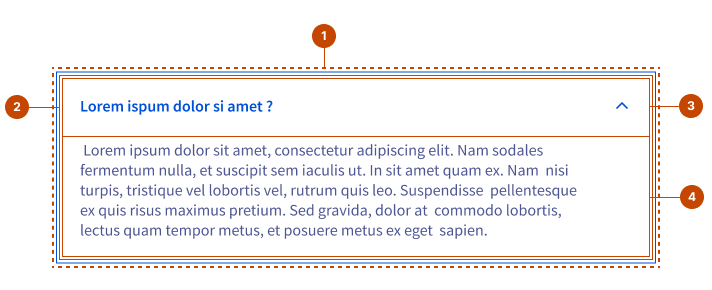
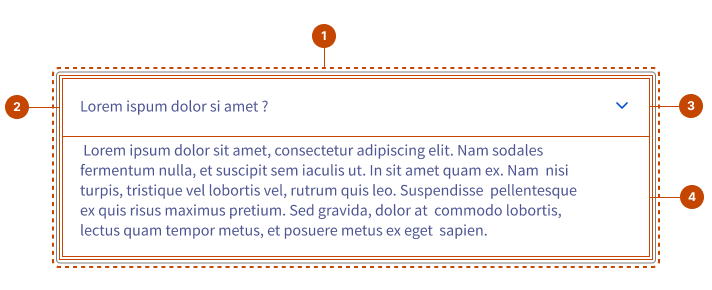
refactor(accordion): simplify trigger structure and update anatomy images

diff --git a/packages/ods-react/src/components/accordion/src/components/accordion-trigger/AccordionTrigger.tsx b/packages/ods-react/src/components/accordion/src/components/accordion-trigger/AccordionTrigger.tsx
@@ -8,7 +8,6 @@ import style from './accordionTrigger.module.scss';
 interface AccordionTriggerProp extends ComponentPropsWithRef<'button'> {
   /**
    * The position of the expand icon.
-   * @default right
    */
   expandIconPosition?: ExpandIconPosition,
 }
@@ -18,31 +17,23 @@ const AccordionTrigger: FC<AccordionTriggerProp> = forwardRef(({
   children,
   className,
   ...props
-}, ref): JSX.Element => {
-  const expandIcon = (
+}, ref): JSX.Element => (
+  <Accordion.ItemTrigger
+    className={ classNames(style['accordion-trigger'], style[`accordion-trigger--expand-icon-${expandIconPosition}`], className) }
+    data-ods="accordion-trigger"
+    ref={ ref }
+    { ...props }>
+    <div className={ style['accordion-trigger__content'] }>
+      { children }
+    </div>
+
     <Accordion.ItemIndicator asChild>
       <Icon
         className={ style['accordion-trigger__icon'] }
         name={ ICON_NAME.chevronRight } />
     </Accordion.ItemIndicator>
-  );
-
-  return (
-    <Accordion.ItemTrigger
-      className={ classNames(style['accordion-trigger'], style[`accordion-trigger--expand-icon-${expandIconPosition}`], className) }
-      data-ods="accordion-trigger"
-      ref={ ref }
-      { ...props }>
-      { expandIconPosition === EXPAND_ICON_POSITION.left && expandIcon }
-
-      <div className={ style['accordion-trigger__content'] }>
-        { children }
-      </div>
-
-      { expandIconPosition === EXPAND_ICON_POSITION.right && expandIcon }
-    </Accordion.ItemTrigger>
-  );
-});
+  </Accordion.ItemTrigger>
+));
 
 AccordionTrigger.displayName = 'AccordionTrigger';
 

diff --git a/packages/ods-react/src/components/accordion/src/components/accordion-trigger/accordionTrigger.module.scss b/packages/ods-react/src/components/accordion/src/components/accordion-trigger/accordionTrigger.module.scss
@@ -4,9 +4,8 @@
   .accordion-trigger {
     $trigger: &;
 
-    display: grid;
-    grid-template-columns: 1fr max-content;
-    column-gap: var(--ods-theme-column-gap);
+    display: flex;
+    gap: var(--ods-theme-column-gap);
     align-items: center;
     border: solid var(--ods-accordion-border-width) transparent;
     background: transparent;
@@ -42,7 +41,11 @@
     }
 
     &--expand-icon-left {
-      grid-template-columns: max-content 1fr;
+      flex-flow: row-reverse;
+    }
+
+    &__content {
+      flex: 1;
     }
 
     &[data-state="open"] {
